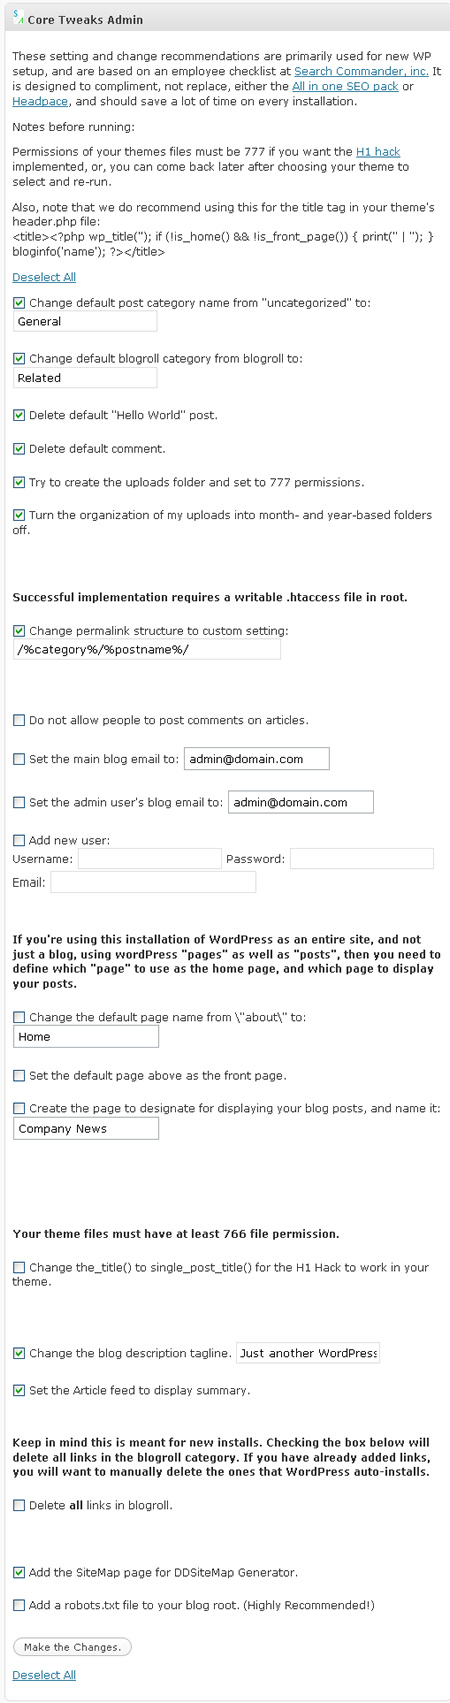
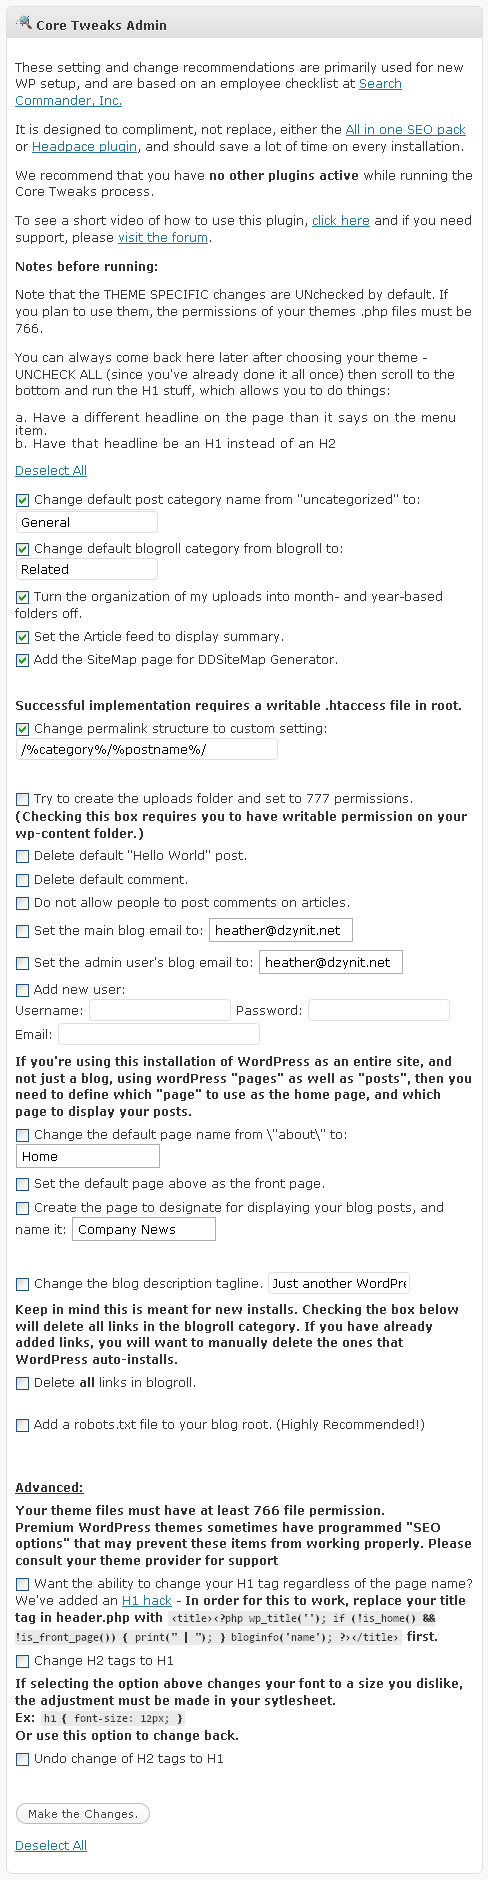
git-svn-id: https://plugins.svn.wordpress.org/seo-automatic-wp-core-tweaks/trunk@198786 b8457f37-d9ea-0310-8a92-e5e31aec5664

Changed region(s): [[0.0311, 0.0, 0.9644, 0.9959], [0.9022, 0.3735, 0.9333, 0.4046], [0.7778, 0.3423, 0.8089, 0.3735]]

diff --git a/settings.php b/settings.php
@@ -44,17 +44,26 @@ get_currentuserinfo();
 //Set category names
 include('cat-names.php');
 
+//Try to create uploads folder and set to 777, uncheck organize by month/year
+include('org-uploads.php');
+
+//Set feeds to summary
+include('feed-display.php');
+
+//Add sitemap page
+include('sitemap-page.php');
+
+//Set permalink structure - SKIPPED, COME BACK AND DO!
+include('permalinks.php');
+
+//Try to create uploads folder and set to 777, uncheck organize by month/year
+include('uploads.php');
+
 //Remove default post
 include('d-post.php');
 
 //Remove default comment
 include('d-comment.php');
-
-//Try to create uploads folder and set to 777, uncheck organize by month/year
-include('uploads.php');
-
-//Set permalink structure - SKIPPED, COME BACK AND DO!
-include('permalinks.php');
 
 //Set to not allow people to comment
 include('user-comments.php');
@@ -67,9 +76,6 @@ include('edit-page-info.php');
 
 //Misc items - blogroll, feed summary, blog tagline
 include('misc.php');
-
-//Add sitemap page
-include('sitemap-page.php');
 
 //Add robots.txt file
 include('robots.php');
@@ -103,12 +109,11 @@ count = document.corechanges.elements.length;
 <?php if ($_REQUEST['action'] != "changecore") { ?>
 <p>These setting and change recommendations are primarily used for new WP setup, and are based on an employee checklist at <a href="http://www.pdxtc.com/wpblog/wordpress/wordpress-checklist-now-a-plug-in/" target="_blank" rel="nofollow">Search Commander, Inc.</a></p><p>It is designed to compliment, not replace, either the <a href="http://wordpress.org/extend/plugins/all-in-one-seo-pack/" target="_blank" rel="nofollow">All in one SEO pack</a> or <a href="http://wordpress.org/extend/plugins/headspace2/" target="_blank" rel="nofollow">Headpace plugin</a>, and should save a lot of time on every installation.</p><p>We recommend that you have <b>no other plugins active</b> while running the Core Tweaks process.</p>
 
+<p>To see a short video of how to use this plugin, <a href="http://www.seoautomatic.com/plugins/wp-core-tweaks/" target="_blank">click here</a> and if you need support, please <a href="http://www.seoautomatic.com/forum/wp-tweak-plugin/" target="_blank">visit the forum</a>.</p>
+
 <p><b>Notes before running:</b></p>
 
-<p>Please note that that we do recommend using this for the title tag (likely in your /themename/header.php file):
-</p><p><b><code>&lt;title&gt;&lt;?php wp_title(''); if (!is_home() && !is_front_page()) { print(" | "); } bloginfo('name'); ?&gt;&lt;/title&gt;</code></b></p><p> Aditionally, that title tag will be necessary if you plan on using the THEME SPECIFIC H1 / H2 hacks at the bottom of this screen.</p>
-
-<p>Note that the THEME SPECIFIC changes are UNchecked by default. If you plan to use them, the permissions of your themes .php files must be 777.</p>
+<p>Note that the THEME SPECIFIC changes are UNchecked by default. If you plan to use them, the permissions of your themes .php files must be 766.</p>
 <p>You can always come back here later after choosing your theme - UNCHECK ALL (since you've already done it all once) then scroll to the bottom and run the H1 stuff, which allows you to do things:</p>
 a. Have a different headline on the page than it says on the menu item.<br />b. Have that headline be an H1 instead of an H2
 
@@ -127,7 +132,7 @@ a. Have a different headline on the page than it says on the menu item.<br />b. 
 </div></div>
 
 <?php } else { ?>
-<p>Check below for Errors:</p>
+<p>If you see errors above, please check below in the red box "Unable to complete" for an explanation in English.</p>
 </div></div>
 
 <div id="success" class="postbox">
@@ -137,9 +142,10 @@ a. Have a different headline on the page than it says on the menu item.<br />b. 
 </div></div>
 
 <div id="fail" class="postbox">
-<h3><span>Errors:</span></h3>
+<h3><span>Unable to complete:</span></h3>
 <div class="inside">
-<ul><?php if ($fail == '') { ?><li>No Errors Occurred.</li><?php } else { echo $fail; } ?></ul>
+<ul><?php if ($fail == '') { ?><li>No Problems Occurred.</li><?php } else { echo $fail; } ?></ul>
+<p>If you don't understand what this means, <a href="http://www.seoautomatic.com/forum/wp-tweak-plugin/" target="_blank">please report it...</a></p>
 </div></div>
 
 <div id="unused" class="postbox">
@@ -157,13 +163,10 @@ a. Have a different headline on the page than it says on the menu item.<br />b. 
 <div id="about-plugins" class="postbox " >
 <h3><span>About</span></h3>
 <div class="inside">
-<a href="http://www.seoautomatic.com/plugins/" target="_blank"><img src="http://www.seoautomatic.com/plugin-home/images/logo-powered-by.jpg" alt="SEO Automatic" width="262" height="166" /></a>
+<a href="http://www.seoautomatic.com/plugins/" target="_blank"><img src="http://www.seoautomatic.com/plugin-home/images/logo-2010.jpg" alt="SEO Automatic" width="259" height="175" /></a>
 <br />
 <ul>
-	<li><img src="http://www.seoautomatic.com/favicon.ico" alt="SEO Automatic" /> <a href="http://www.seoautomatic.com/home/" target="_blank"> SEO Automatic</a></li>
-	<li><img src="http://www.seoautomatic.com/favicon.ico" alt="SEO Automatic" /> <a href="http://www.searchcommander.com/" target="_blank"> Search Commander, Inc</a></li>
-	<li><img src="http://www.seoautomatic.com/favicon.ico" alt="SEO Automatic" /> <a href="http://www.seoautomatic.com/plugins/" target="_blank"> Entire Suite of Plugins</a></li>
-	<li><img src="http://www.seoautomatic.com/favicon.ico" alt="SEO Automatic" /> <a href="http://www.seoautomatic.com/white-label/" target="_blank"> White Label Options</a></li>
+	<li><img src="http://www.seoautomatic.com/favicon.ico" alt="SEO Automatic" /> <a href="http://www.seoautomatic.com/pricing-plans/white-label/" target="_blank"> White Label Options</a></li>
 </ul>
 
 </div></div>
@@ -172,8 +175,6 @@ a. Have a different headline on the page than it says on the menu item.<br />b. 
 <h3><span>Resources</span></h3>
 <div class="inside">
 <ul>
-	<li><img src="http://www.seoautomatic.com/favicon.ico" alt="" /> <a href="http://www.pdxtc.com/wpblog/" target="_blank">Scott's Blog</a></li>
-	<li><img src="http://www.seoautomatic.com/favicon.ico" alt="" /> <a href="http://www.twitter.com/shendison/" target="_blank">Scott's Twitter</a></li>
 	<li><img src="http://www.seoautomatic.com/favicon.ico" alt="" /> <a href="http://www.seoautomatic.ourtoolbar.com/" target="_blank">Search Commander, Inc. Toolbar</a></li>
 	<li><img src="http://www.seoautomatic.com/favicon.ico" alt="SEO Automatic" /> <a href="http://www.searchcommander.com/seo-tools/" target="_blank"> SEO Automatic Tools</a></li>
 	<li><img src="http://www.seoautomatic.com/favicon.ico" alt="" /> <a href="http://www.getwordpressed.com/about/" target="_blank">Site Matched WP Themes</a></li>

diff --git a/home.php b/home.php
@@ -84,12 +84,9 @@ if (function_exists('seo_tools_admin')) {
 <div id="about-plugins" class="postbox " >
 <h3><span>About</span></h3>
 <div class="inside">
-<a href="http://www.seoautomatic.com/plugins/" target="_blank"><img src="http://www.seoautomatic.com/plugin-home/images/logo-powered-by.jpg" alt="SEO Automatic" width="262" height="166" /></a>
+<a href="http://www.seoautomatic.com/plugins/" target="_blank"><img src="http://www.seoautomatic.com/plugin-home/images/logo-2010.jpg" alt="SEO Automatic" width="262" height="166" /></a>
 <br />
 <ul>
-	<li><img src="http://www.seoautomatic.com/favicon.ico" alt="SEO Automatic" /> <a href="http://www.seoautomatic.com/home/" target="_blank"> SEO Automatic</a></li>
-	<li><img src="http://www.seoautomatic.com/favicon.ico" alt="SEO Automatic" /> <a href="http://www.searchcommander.com/" target="_blank"> Search Commander, Inc</a></li>
-	<li><img src="http://www.seoautomatic.com/favicon.ico" alt="SEO Automatic" /> <a href="http://www.seoautomatic.com/plugins/" target="_blank"> Entire Suite of Plugins</a></li>
 	<li><img src="http://www.seoautomatic.com/favicon.ico" alt="SEO Automatic" /> <a href="http://www.seoautomatic.com/white-label/" target="_blank"> White Label Options</a></li>
 </ul>
 
@@ -99,8 +96,6 @@ if (function_exists('seo_tools_admin')) {
 <h3><span>Resources</span></h3>
 <div class="inside">
 <ul>
-	<li><img src="http://www.seoautomatic.com/favicon.ico" alt="" /> <a href="http://www.pdxtc.com/wpblog/" target="_blank">Scott's Blog</a></li>
-	<li><img src="http://www.seoautomatic.com/favicon.ico" alt="" /> <a href="http://www.twitter.com/shendison/" target="_blank">Scott's Twitter</a></li>
 	<li><img src="http://www.seoautomatic.com/favicon.ico" alt="" /> <a href="http://www.seoautomatic.ourtoolbar.com/" target="_blank">Search Commander, Inc. Toolbar</a></li>
 	<li><img src="http://www.seoautomatic.com/favicon.ico" alt="SEO Automatic" /> <a href="http://www.searchcommander.com/seo-tools/" target="_blank"> SEO Automatic Tools</a></li>
 	<li><img src="http://www.seoautomatic.com/favicon.ico" alt="" /> <a href="http://www.getwordpressed.com/about/" target="_blank">Site Matched WP Themes</a></li>

diff --git a/misc.php b/misc.php
@@ -3,8 +3,14 @@
 if ($_REQUEST['action'] == "changecore") {
 	if ($_REQUEST['taglinecheck'] == "ON") {
 		$tagline = $_REQUEST['tagline'];
+		$currenttagline = get_bloginfo('description');
 		if (!update_option('blogdescription', $tagline)) {
-			$fail .= "<li>The blog description/tagline, ".$tagline." could not be changed.</li>";
+			if ($tagline == $currenttagline) {
+				if ($tagline == '') { $tagline = '(blank)'; }
+				$fail .= "<li>The blog description/tagline is already set to: ".$tagline."</li>";
+			} else {
+				$fail .= "<li>The blog description/tagline, ".$tagline." could not be changed.</li>";
+			}
 		} else {
 			$success .= "<li>The blog description/tagline is: ".$tagline."</li>";
 		}
@@ -13,23 +19,8 @@ if ($_REQUEST['action'] == "changecore") {
 	}
 } else {
 	$tagline = get_bloginfo('description');
-	$options .= '<li><input name="taglinecheck" type="checkbox" value="ON" checked /> Change the blog description tagline. <input name="tagline" type="text" id="tagline" value="'.$tagline.'" /></li>';
+	$options .= '<li><input name="taglinecheck" type="checkbox" value="ON" /> Change the blog description tagline. <input name="tagline" type="text" id="tagline" value="'.$tagline.'" /></li>';
 } 
-
-//Sets feed to summary
-if ($_REQUEST['action'] == "changecore") {
-	 if ($_REQUEST['feed_summary'] == "ON") {
-		if (!update_option('rss_use_excerpt','1')) {
-			$fail .= "<li>The article feed could not be set to summary. Perhaps it already is.</li>";
-		} else {
-			$success .= "<li>The article feed has been set to display summary.</li>";
-		}
-	} else {
-		$notused .= "<li>Set article feed to summary.</li>";
-	}
-} else {
-	$options .= '<li><input name="feed_summary" type="checkbox" value="ON" checked /> Set the Article feed to display summary.</li>';
-}
 
 //Empty blogroll that wp installs
 if ($_REQUEST['action'] != "changecore") {

diff --git a/sc-core-tweak.php b/sc-core-tweak.php
@@ -3,7 +3,7 @@
 Plugin Name: SEO Automatic WP Core Tweaks
 Plugin URI: http://www.seoautomatic.com/plugins/wp-core-tweaks/
 Description: Conceived by Scott Hendison and programmed by Heather Barger for Search Commander, Inc. to automate proper WP setup. It also extends the built-in features of WordPress menu management, an and combines several common plugins into one.  See <a href="admin.php?page=seo-automatic-wp-core-tweaks/settings.php">SEO Automatic > Core Tweaks</a> for options.
-Version: 2.5
+Version: 2.6
 */
 error_reporting(E_ALL);
 if(!function_exists('myErrorHandler')){
@@ -49,10 +49,6 @@ function sc_settings() {
 	include('settings.php');
 }
 
-function sc_help() {
-	include('help.php');
-}
-
 function core_menu() {
 	global $menu;
 	foreach ($menu as $i) {
@@ -67,14 +63,10 @@ function core_menu() {
 		add_submenu_page('seo-automatic-options', 'Admin', 'Admin', 'activate_plugins', 'seo-automatic-options', 'sc_index');
 	}
 	add_submenu_page('seo-automatic-options', 'Core Tweaks', 'Core Tweaks', 'activate_plugins', dirname(__FILE__) . '/settings.php', 'sc_settings');
-	add_submenu_page('seo-automatic-options', 'Core Tweaks Help', 'Core Tweaks Help', 'activate_plugins', dirname(__FILE__) . '/help.php', 'sc_help');
+
 }
 
-
-
 do_action('admin_print_scripts-seo-automatic-wp-core-tweaks');
-
-
 add_action('admin_menu', 'core_menu');
 
 $current_plugins = get_option('active_plugins');

diff --git a/uploads.php b/uploads.php
@@ -18,22 +18,6 @@ if ($_REQUEST['action'] == "changecore") {
 		$notused .= "<li>Creation of uploads folder.</li>";
 	}
 } else {
-	$options .= "<li><input name=\"uploads_folder\" type=\"checkbox\" value=\"ON\" checked /> Try to create the uploads folder and set to 777 permissions.</li>";
+	$options .= "<li><input name=\"uploads_folder\" type=\"checkbox\" value=\"ON\" /> Try to create the uploads folder and set to 777 permissions. <b>(Checking this box requires you to have writable permission on your wp-content folder.)</b></li>";
 } 
-
-//Turn organization of uploads into year and month off
-if ($_REQUEST['action'] == "changecore") {
-	 if ($_REQUEST['yr_mnth'] == "ON") {
-		if ( (!update_option('uploads_use_yearmonth_folders','')) ) {
-			$fail .= "<li>Could not uncheck organize my uploads into month- and year-based folders.</li>";
-		} else {
-			$success .= "<li>Organizing uploads into month- and year-based folders is turned off.</li>";
-		}
-	} else {
-		update_option('uploads_use_yearmonth_folders','1');
-		$notused .= "<li>Organization of uploads folders.</li>";
-	} 
-} else {
-	$options .= "<li><input name=\"yr_mnth\" type=\"checkbox\" value=\"ON\" checked /> Turn the organization of my uploads into month- and year-based folders off.</li>";
-}
 ?>

diff --git a/h1hack.php b/h1hack.php
@@ -2,7 +2,7 @@
 // Changes the_title() to single_post_title() in page.php and single.php so the h1 hack can work.
 
 if ($_REQUEST['action'] != "changecore") {
-	$options .= '<li>&nbsp;</li><li><b>Your theme files must have at least 766 file permission.<br />Premium WordPress themes sometimes have programmed "SEO options" that may prevent these items from working properly. Please consult your theme provider for support</b></li>';
+	$options .= '<li>&nbsp;</li><li><b><br /><u>Advanced:</u><br /></b></li><li><b>Your theme files must have at least 766 file permission.<br />Premium WordPress themes sometimes have programmed "SEO options" that may prevent these items from working properly. Please consult your theme provider for support</b></li>';
 }
 
 if ($_REQUEST['action'] == "changecore") {

diff --git a/org-uploads.php b/org-uploads.php
@@ -1,0 +1,17 @@
+<?php
+//Turn organization of uploads into year and month off
+if ($_REQUEST['action'] == "changecore") {
+	 if ($_REQUEST['yr_mnth'] == "ON") {
+		if ( (!update_option('uploads_use_yearmonth_folders','')) ) {
+			$fail .= "<li>Could not uncheck organize my uploads into month- and year-based folders.</li>";
+		} else {
+			$success .= "<li>Organizing uploads into month- and year-based folders is turned off.</li>";
+		}
+	} else {
+		update_option('uploads_use_yearmonth_folders','1');
+		$notused .= "<li>Organization of uploads folders.</li>";
+	} 
+} else {
+	$options .= "<li><input name=\"yr_mnth\" type=\"checkbox\" value=\"ON\" checked /> Turn the organization of my uploads into month- and year-based folders off.</li>";
+}
+?>

diff --git a/feed-display.php b/feed-display.php
@@ -1,0 +1,16 @@
+<?php
+//Sets feed to summary
+if ($_REQUEST['action'] == "changecore") {
+	 if ($_REQUEST['feed_summary'] == "ON") {
+		if (!update_option('rss_use_excerpt','1')) {
+			$fail .= "<li>The article feed could not be set to summary. Perhaps it already is.</li>";
+		} else {
+			$success .= "<li>The article feed has been set to display summary.</li>";
+		}
+	} else {
+		$notused .= "<li>Set article feed to summary.</li>";
+	}
+} else {
+	$options .= '<li><input name="feed_summary" type="checkbox" value="ON" checked /> Set the Article feed to display summary.</li>';
+}
+?>

diff --git a/d-comment.php b/d-comment.php
@@ -14,6 +14,6 @@ if ($_REQUEST['action'] == "changecore") {
 		$notused .= "<li>Default comment removal.</li>";
 	}
 } else {
-	$options .= "<li><input type=\"checkbox\" name=\"d_comment\" value=\"ON\"> Delete default comment. (Wordpress has not been adding the sample comment in recent versions, so if you choose this option, the result screen may show that the comment was not deleted but perhaps already had been.)</li>";
+	$options .= "<li><input type=\"checkbox\" name=\"d_comment\" value=\"ON\"> Delete default comment.</li>";
 }
 ?>

diff --git a/sitemap-page.php b/sitemap-page.php
@@ -1,5 +1,6 @@
 <?php
 // Add the sitemap page for ddsitemap generator
+	global $wpdb;
 
 if ($_REQUEST['action'] == "changecore") {
 	 if ($_REQUEST['add_sitemap'] == "ON") {
@@ -36,7 +37,7 @@ wp_insert_post($info);
 		update_option('gdm_excluded_pages', $excludedPages);
 
 		wp_cache_delete('all_page_ids', 'pages');
-		$wp_rewrite->flush_rules();
+		//$wp_rewrite->flush_rules();
 		$success .= "<li>The sitemap was created.</li>";
 		} else {
 			$fail .= "<li>The sitemap was not created. Perhaps it already exists.</li>";

diff --git a/cat-names.php b/cat-names.php
@@ -1,6 +1,6 @@
 <?php
 // Change category information
-
+global $wpdb;
 //Set the default post category name
 if ($_REQUEST['action'] == "changecore") {
 	$cat_1 = $_REQUEST['cat_1'];
